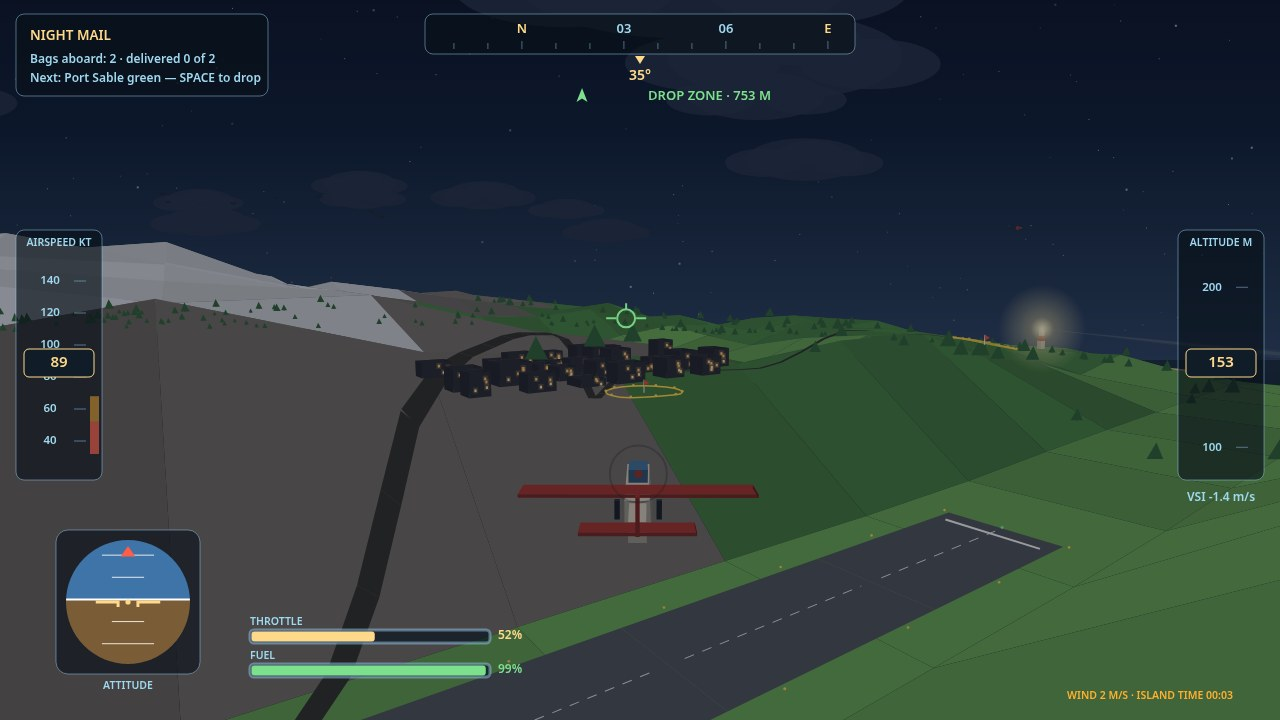
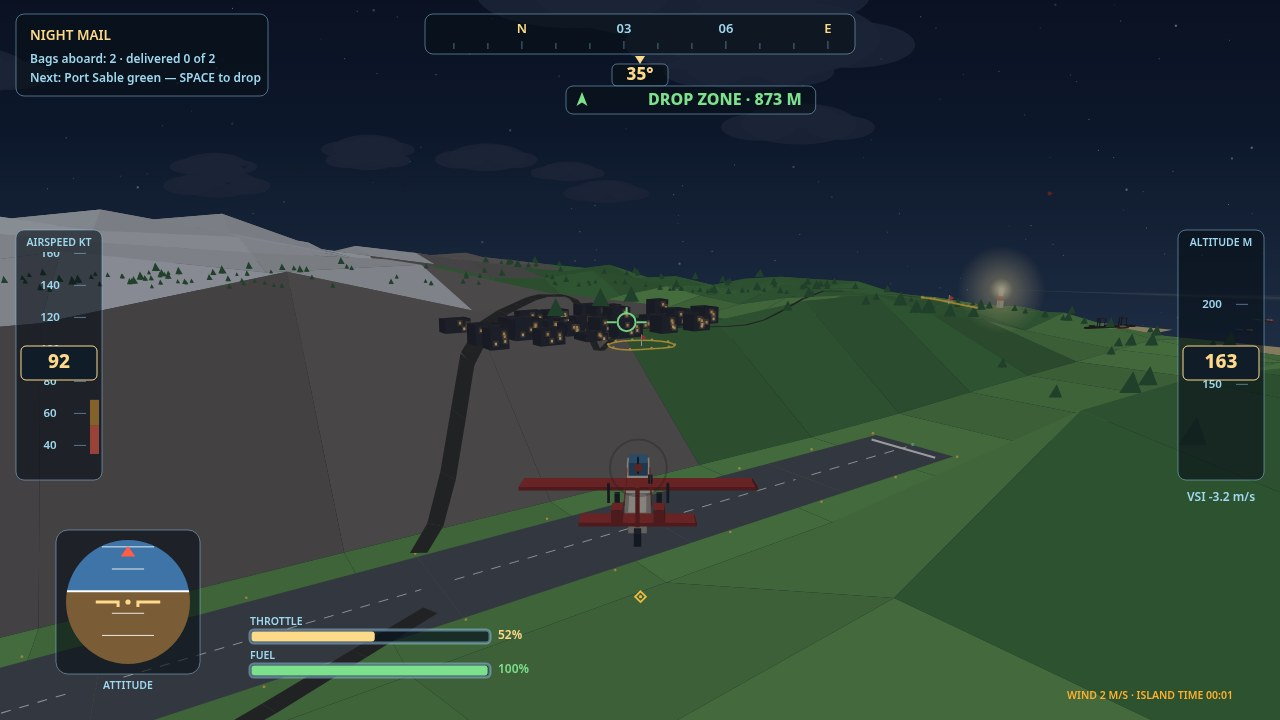
Phase 3 cycle U: primary readouts legible at judge scale [Crit 1]
At 300 px the panel was mush: the boxed tape values were 15 px,
the heading 14 px, and the objective line 13 px of bare text that
washed out against bright sky. Bounded pass on the four primary
readouts only — no HUD rework:
- tape readout boxes grow (76x34) and their numerals go 15 -> 19 px
  at weight 800;
- the current heading goes 14 -> 17 px bold, boxed on dark glass
  under the tape;
- the objective cue goes 13 -> 16 px bold on a dark pill behind
  arrow and text, so 'RING 1 - 343 M' survives a bright sky.
A/B on the cover at 300 px: clearly better, kept. Screenshots
re-staged from the same setups (storm burst with the flare lit,
night burst over the town) so the entry shows the panel it ships.

Verified: E2E 38/38, dossier 573,438 B byte-identical double
build, game text 149,629 B (cap 163,840), screenshots 4 x
1280x720, each <= 92,919 B.

diff --git a/game/js/instruments.js b/game/js/instruments.js
@@ -24,9 +24,9 @@ function box(ctx, x, y, w, h, r = 8) {
   ctx.stroke();
 }
 
-function label(ctx, text, x, y, size = 11, color = CYAN, align = 'center') {
+function label(ctx, text, x, y, size = 11, color = CYAN, align = 'center', weight = 600) {
   ctx.fillStyle = color;
-  ctx.font = `600 ${size}px "Segoe UI", system-ui, sans-serif`;
+  ctx.font = `${weight} ${size}px "Segoe UI", system-ui, sans-serif`;
   ctx.textAlign = align;
   ctx.textBaseline = 'middle';
   ctx.fillText(text, x, y);
@@ -61,7 +61,12 @@ function headingTape(ctx, w, headingDeg) {
   ctx.beginPath();
   ctx.moveTo(w / 2 - 5, y + 42); ctx.lineTo(w / 2 + 5, y + 42); ctx.lineTo(w / 2, y + 50);
   ctx.closePath(); ctx.fill();
-  label(ctx, `${Math.round(headingDeg)}°`, w / 2, y + 62, 14, LIT);
+  // The current heading is a primary readout: big, bold, and boxed
+  // against the sky so it survives being shrunk to a thumbnail.
+  ctx.fillStyle = 'rgba(8,16,24,0.72)';
+  ctx.strokeStyle = EDGE;
+  ctx.beginPath(); ctx.roundRect(w / 2 - 28, y + 50, 56, 22, 5); ctx.fill(); ctx.stroke();
+  label(ctx, `${Math.round(headingDeg)}°`, w / 2, y + 61, 17, LIT, 'center', 800);
 }
 
 // A vertical tape (airspeed on the left, altitude on the right) with a
@@ -94,13 +99,14 @@ function verticalTape(ctx, x, y, h, value, step, fmt, title, warn, bands) {
     label(ctx, fmt(v), x + 34, yy, 11.5, CYAN);
   }
   ctx.restore();
-  // The readout box rides the middle of the tape.
+  // The readout box rides the middle of the tape. It is the number
+  // the pilot — and the thumbnail — reads first: big and bold.
   ctx.fillStyle = warn ? RED : '#101c28';
   ctx.strokeStyle = warn ? RED : LIT;
   ctx.beginPath();
-  ctx.roundRect(x + 8, mid - 14, 70, 28, 5);
+  ctx.roundRect(x + 5, mid - 17, 76, 34, 5);
   ctx.fill(); ctx.stroke();
-  label(ctx, fmt(value), x + 43, mid, 15, warn ? '#fff' : LIT);
+  label(ctx, fmt(value), x + 43, mid, 19, warn ? '#fff' : LIT, 'center', 800);
 }
 
 function artificialHorizon(ctx, x, y, r, plane) {
@@ -225,8 +231,17 @@ export function drawInstruments(ctx, w, h, plane, mission, time) {
 // always findable, and "ahead" is visible at a glance.
 export function drawObjective(ctx, w, h, obj) {
   if (!obj) return;
-  const cx = w / 2, cy = 96;
+  const cx = w / 2, cy = 100;
   const ahead = Math.abs(obj.rel) < 0.25;
+  const distTxt = obj.dist >= 1000 ? `${(obj.dist / 1000).toFixed(1)} KM` : `${Math.round(obj.dist)} M`;
+  const txt = `${obj.label} · ${distTxt}`;
+  // A dark pill behind arrow and text: over bright sky the bare
+  // letters washed out, and this is the readout that says where to go.
+  ctx.font = `800 16px "Segoe UI", system-ui, sans-serif`;
+  const tw = ctx.measureText(txt).width;
+  ctx.fillStyle = 'rgba(8,16,24,0.66)';
+  ctx.strokeStyle = EDGE;
+  ctx.beginPath(); ctx.roundRect(cx - 74, cy - 14, tw + 96, 28, 7); ctx.fill(); ctx.stroke();
   ctx.save();
   ctx.translate(cx - 58, cy);
   ctx.rotate(clamp(obj.rel, -1.2, 1.2));
@@ -235,8 +250,7 @@ export function drawObjective(ctx, w, h, obj) {
   ctx.moveTo(0, -8); ctx.lineTo(5.5, 6); ctx.lineTo(0, 2.5); ctx.lineTo(-5.5, 6);
   ctx.closePath(); ctx.fill();
   ctx.restore();
-  const distTxt = obj.dist >= 1000 ? `${(obj.dist / 1000).toFixed(1)} KM` : `${Math.round(obj.dist)} M`;
-  label(ctx, `${obj.label} · ${distTxt}`, cx + 8, cy, 13, ahead ? GREEN : CYAN, 'left');
+  label(ctx, txt, cx + 8, cy, 16, ahead ? GREEN : CYAN, 'left', 800);
 }
 
 // A centred event banner: gate cleared, mail away, touchdown judged.
